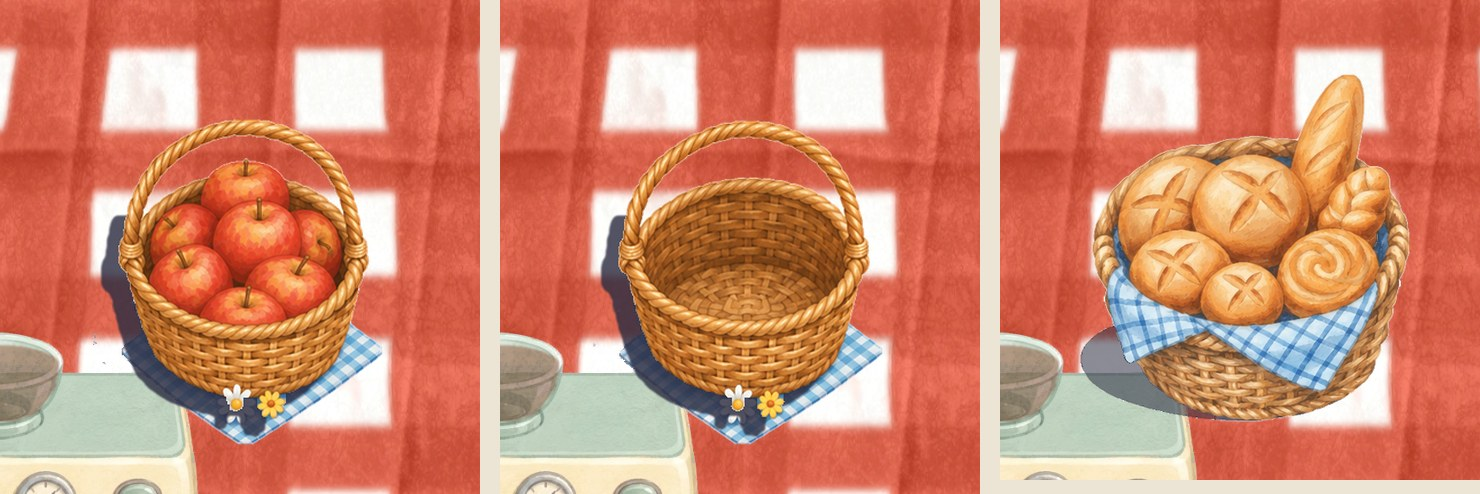
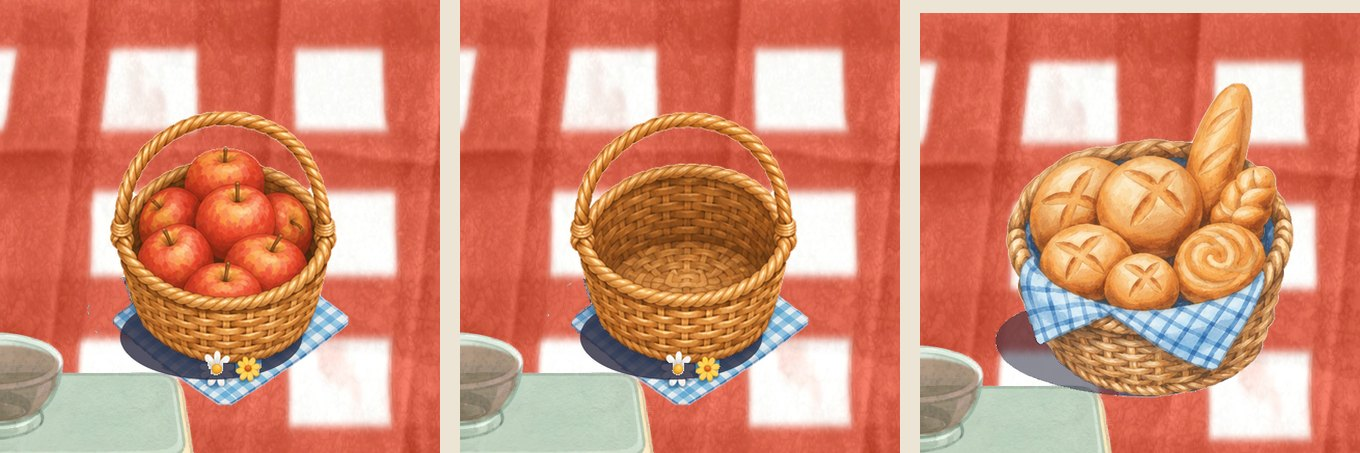
Report: bread shadow shape drawn in Q&A, tabs and panel one piece with new captures

diff --git a/Docs/tools/report_page/index.html b/Docs/tools/report_page/index.html
@@ -84,7 +84,14 @@ h3 small{font-weight:600;color:var(--soft);font-size:13px;margin-left:6px}
 
 <h2 id="qa"><span class="n">2</span>Q&amp;A</h2>
 
-<div class="q"><h3>Q1 · Can the games we played in the Unity editor end up in the analysis data? <small>10 November</small></h3>
+<div class="q"><h3>Q1 · What is the shape of the bread basket's shadow? Draw it. <small>10 November</small></h3>
+<p>A flat oval lying on the table under the basket, as wide as the basket and about two fifths as tall, pushed a little to the left, its bottom on the basket's bottom. The basket hides most of it, so what shows is a crescent: thick at the upper left, thinning to a point under the basket's bottom. Middle picture: the drawn shadow in navy, the oval in red. Right: that oval rebuilt under the bread. Bottom: the same oval under the apple basket, now in the game.</p>
+<figure><img src="bread_shadow_shape.jpg" alt="The bread basket, its shadow alone with the fitted oval, the oval rebuilt under the bread, and the apple basket with the same oval" style="max-height:560px"></figure>
+<ul class="checks">
+<li><label><input type="checkbox" data-id="qa.breadshape.seen"> Seen, remove this</label></li>
+</ul></div>
+
+<div class="q"><h3>Q2 · Can the games we played in the Unity editor end up in the analysis data? <small>10 November</small></h3>
 <p>No. The game picks its analytics environment at start: in the editor or in a TestFlight build it sends to <b>development</b>, only an App Store copy sends to <b>production</b>. The Analysis section reads production alone. Tonight's editor sessions (the shop captures) are in development next to your TestFlight phone, and I never count that environment.</p>
 <ul class="checks">
 <li><label><input type="checkbox" data-id="qa.editordata.seen"> Seen, remove this</label></li>
@@ -95,7 +102,7 @@ h3 small{font-weight:600;color:var(--soft);font-size:13px;margin-left:6px}
 
 
 
-<div class="q"><h3>Q2 · More ideas for the polish release <small>31 October</small></h3>
+<div class="q"><h3>Q3 · More ideas for the polish release <small>31 October</small></h3>
 <ul class="checks">
 <li><label><input type="checkbox" data-id="qa.ideas.seen"> Seen, remove this</label></li>
 <li><label><input type="checkbox" data-id="qa.ideas.a"> <b>a</b> Last call: the music picks up and the sign flips in the last ten seconds.</label></li>
@@ -109,7 +116,7 @@ h3 small{font-weight:600;color:var(--soft);font-size:13px;margin-left:6px}
 
 <h2 id="current"><span class="n">3</span>Current</h2>
 <div class="card">
-<p style="margin-top:0"><b>Shop tabs one piece with the panel, 10 November.</b> The band between the tabs and the panel is gone: the open tab and the panel are one shape, the closed tabs sit darker behind.</p>
+<p style="margin-top:0"><b>Shop tabs one piece with the panel, 10 November.</b> No band, no edge: the panel slides to its own place now (it used to drop 20 units after the tabs were laid on its edge), and it is a plain rectangle like the tabs, so the open tab and the panel render the very same colour. Closed tabs sit darker behind.</p>
 <div class="shots">
 <figure><img src="shop_tabs_coins.jpg" alt="Shop with the Coins tab open, joined to the panel"><figcaption>Coins tab, the default.</figcaption></figure>
 <figure><img src="shop_tabs_dollar.jpg" alt="Shop with the dollar tab open, Remove Ads card"><figcaption>$ tab with Remove Ads.</figcaption></figure>
@@ -126,7 +133,7 @@ h3 small{font-weight:600;color:var(--soft);font-size:13px;margin-left:6px}
 </ul>
 </div>
 <div class="card">
-<p style="margin-top:0"><b>Basket shadows, 9 November.</b> The bread keeps its drawn shadow. The apple basket now casts the shape of its own bowl, like the bread: shifted down and to the left, the bread's navy and strength, smooth edge, over the cloth and under the basket. Same shadow on all eight frames.</p>
+<p style="margin-top:0"><b>Basket shadows, 9 November.</b> The bread keeps its drawn shadow. The apple basket now has the bread's shadow: the same flat oval, scaled to its basket, same place, same navy and strength, over the napkin and under the basket. One shadow on all eight frames. The oval is drawn in Q1.</p>
 <figure><img src="shadows_big.jpg" alt="Apple basket full and empty and the bread basket: before on the left, now on the right, close up" style="max-height:620px"><figcaption>At table scale: apple basket full, apple basket empty, bread basket for reference.</figcaption></figure>
 
 
@@ -139,7 +146,7 @@ h3 small{font-weight:600;color:var(--soft);font-size:13px;margin-left:6px}
 <h2 id="mvp"><span class="n">4</span>MVP</h2>
 <p class="sub" style="margin:0 0 8px">Your words, 9 November. Release goal: Thursday 13 November.</p>
 <ol class="plan">
-<li>A couple of things to improve gameplay. Your picks (Q2): <b>d</b> night lights (lit truck windows and fireflies in chapter 1, a lantern glow in chapter 2) and <b>e</b> the shop NEW tag and the bought item flying to the table.</li>
+<li>A couple of things to improve gameplay. Your picks (Q3): <b>d</b> night lights (lit truck windows and fireflies in chapter 1, a lantern glow in chapter 2) and <b>e</b> the shop NEW tag and the bought item flying to the table.</li>
 <li>Stars as a currency, and a star shop panel in the shop. Tabs on the shop panel: left Stars, middle Coins (default, the existing items), right $ (real money, Remove Ads).</li>
 <li>Remove Ads purchase, $1.99 (the Paid Apps Agreement first).</li>
 <li>At least five rounds of your own play test on TestFlight, feedback after each.</li>
